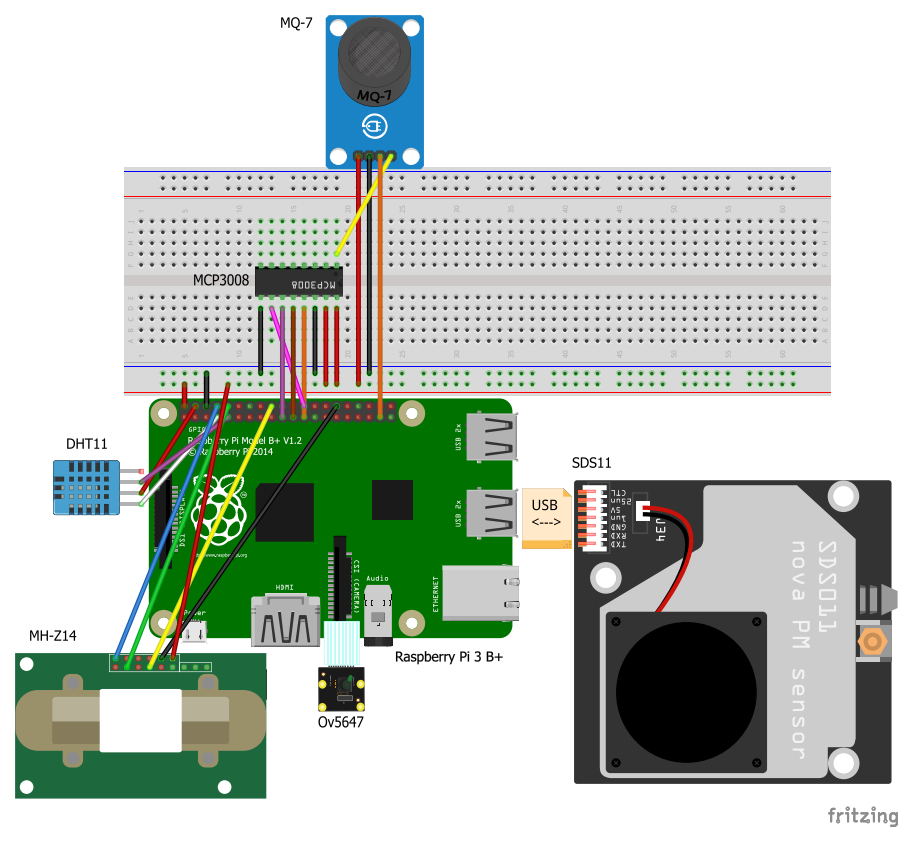
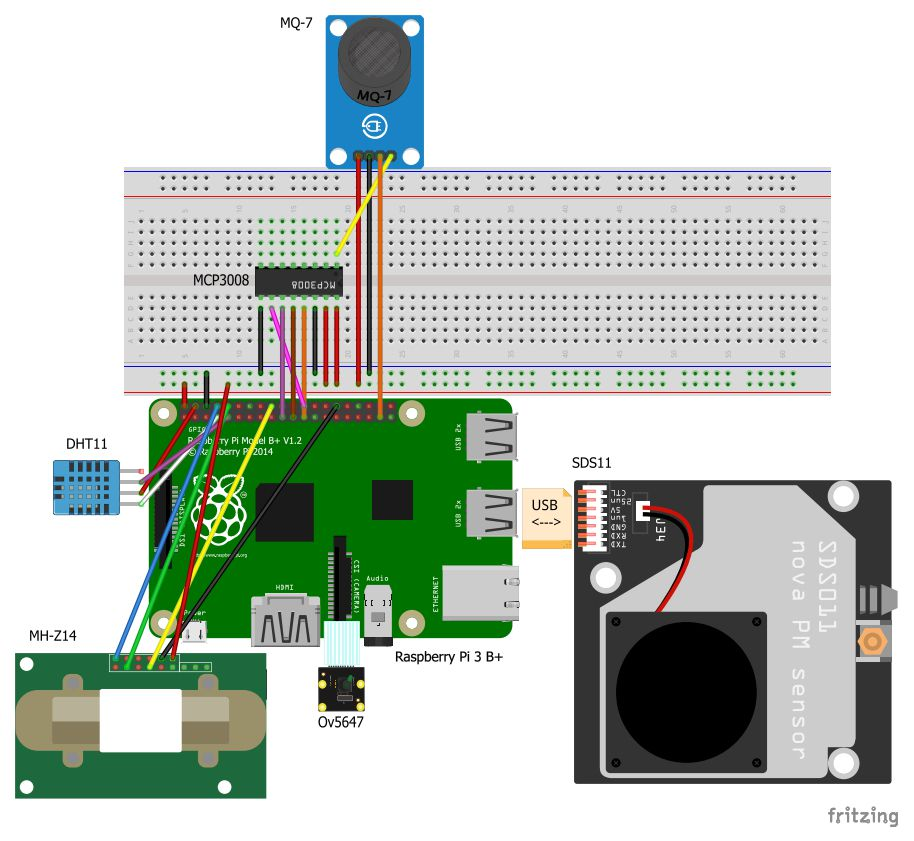
Reducido peso 6.3MB a 3.6MB

diff --git a/capitulos/diseno.tex b/capitulos/diseno.tex
@@ -245,7 +245,7 @@ Inmediatamente después, se muestra un cuadro con la imagen en tiempo real de la
 	\ffigbox[\textwidth]
 	{\caption{Interfaz de dispositivo I}
 		\label{fig:iDispositivoI}}
-	{\includegraphics[width=\textwidth]{medidas1.png}}
+	{\includegraphics[width=\textwidth]{medidas1.jpg}}
 \end{figure}
 A continuación, se muestran todas las medidas, primero de manera gráfica y después de manera tabular.
 
@@ -278,7 +278,7 @@ Además, las gráficas ofrecen la posibilidad de acceder a un dato en particular
 	\ffigbox[\FBwidth]
 	{\caption{Interfaz de dispositivo en móvil}
 		\label{fig:iDispositivoMI}}
-	{\includegraphics[scale=0.5]{medidas1M.png}
+	{\includegraphics[scale=0.5]{medidas1M.jpg}
 		\includegraphics[scale=0.5]{medidas3M.png}}
 \end{figure}
 
@@ -328,7 +328,7 @@ Se comienza con los sensores con los que cuenta el dispositivo:
 		      \ffigbox[\FBwidth]
 		      {\caption{Esquema del sensor MH-Z14}
 			      \label{fig:MH-Z14}}
-		      {\includegraphics[scale=0.77]{MH-Z14.png}}
+		      {\includegraphics[scale=0.77]{MH-Z14.jpg}}
 	      \end{figure}
 	\item \textbf{SDS011}: Módulo de medida de partículas en suspensión, que se conecta mediante USB a la placa.
 \end{itemize}

diff --git a/capitulos/implementacion.tex b/capitulos/implementacion.tex
@@ -274,7 +274,7 @@ Para obtener las partículas por millón de dióxido de carbono del ambiente se 
 	\ffigbox[\textwidth]
 	{\caption{Lectura de concentración de CO$_2$ MH-Z14}
 		\label{fig:co2PPMcalc}}
-	{\includegraphics[width=\textwidth]{co2ppm.png}}
+	{\includegraphics[width=\textwidth]{co2ppm.jpg}}
 \end{figure}
 En primer lugar hay que identificar en qué puerto serial se encuentra el sensor, en este caso es el \textit{ttyS0} que corresponde al puerto UART. Tras esto, simplemente se realiza una \textit{request} de lectura que se indica en la \autoref{fig:co2PPMcalc} y de la que se obtiene como respuesta el valor de la concentración de CO$_2$ junto con un \textit{checksum} para verificar que la lectura es correcta.
 

diff --git a/capitulos/introduccion.tex b/capitulos/introduccion.tex
@@ -52,7 +52,7 @@ Se muestra a continuación, en la \autoref{fig:metrica_v3}, un diagrama de Métr
 	\ffigbox[\FBwidth]
 	{\caption[Diagrama Métrica V3]{Diagrama Métrica V3~\cite{secretaria_general_de_administracion_digital_metrica_nodate}}
 		\label{fig:metrica_v3}}
-	{\includegraphics[scale=0.65]{Metrica3.png}}
+	{\includegraphics[scale=0.65]{Metrica3.jpg}}
 \end{figure}
 
 \section{Estructura del documento}\label{sec:estructura-del-documento}

diff --git a/portada.tex b/portada.tex
@@ -28,7 +28,7 @@
 		\end{center}
 		\vfill
 		\color{black}
-		\includegraphics[width=4.2cm]{imagenes/creativecommons.png}\\ %incluimos el logotipo de creativecommons
+		\includegraphics[width=4.2cm]{imagenes/creativecommons.jpg}\\ %incluimos el logotipo de creativecommons
 		Esta obra se encuentra sujeta a la licencia Creative Commons \textbf{Reconocimiento - No Comercial - Sin Obra Derivada}
 	\end{sffamily}
 \end{titlepage}
